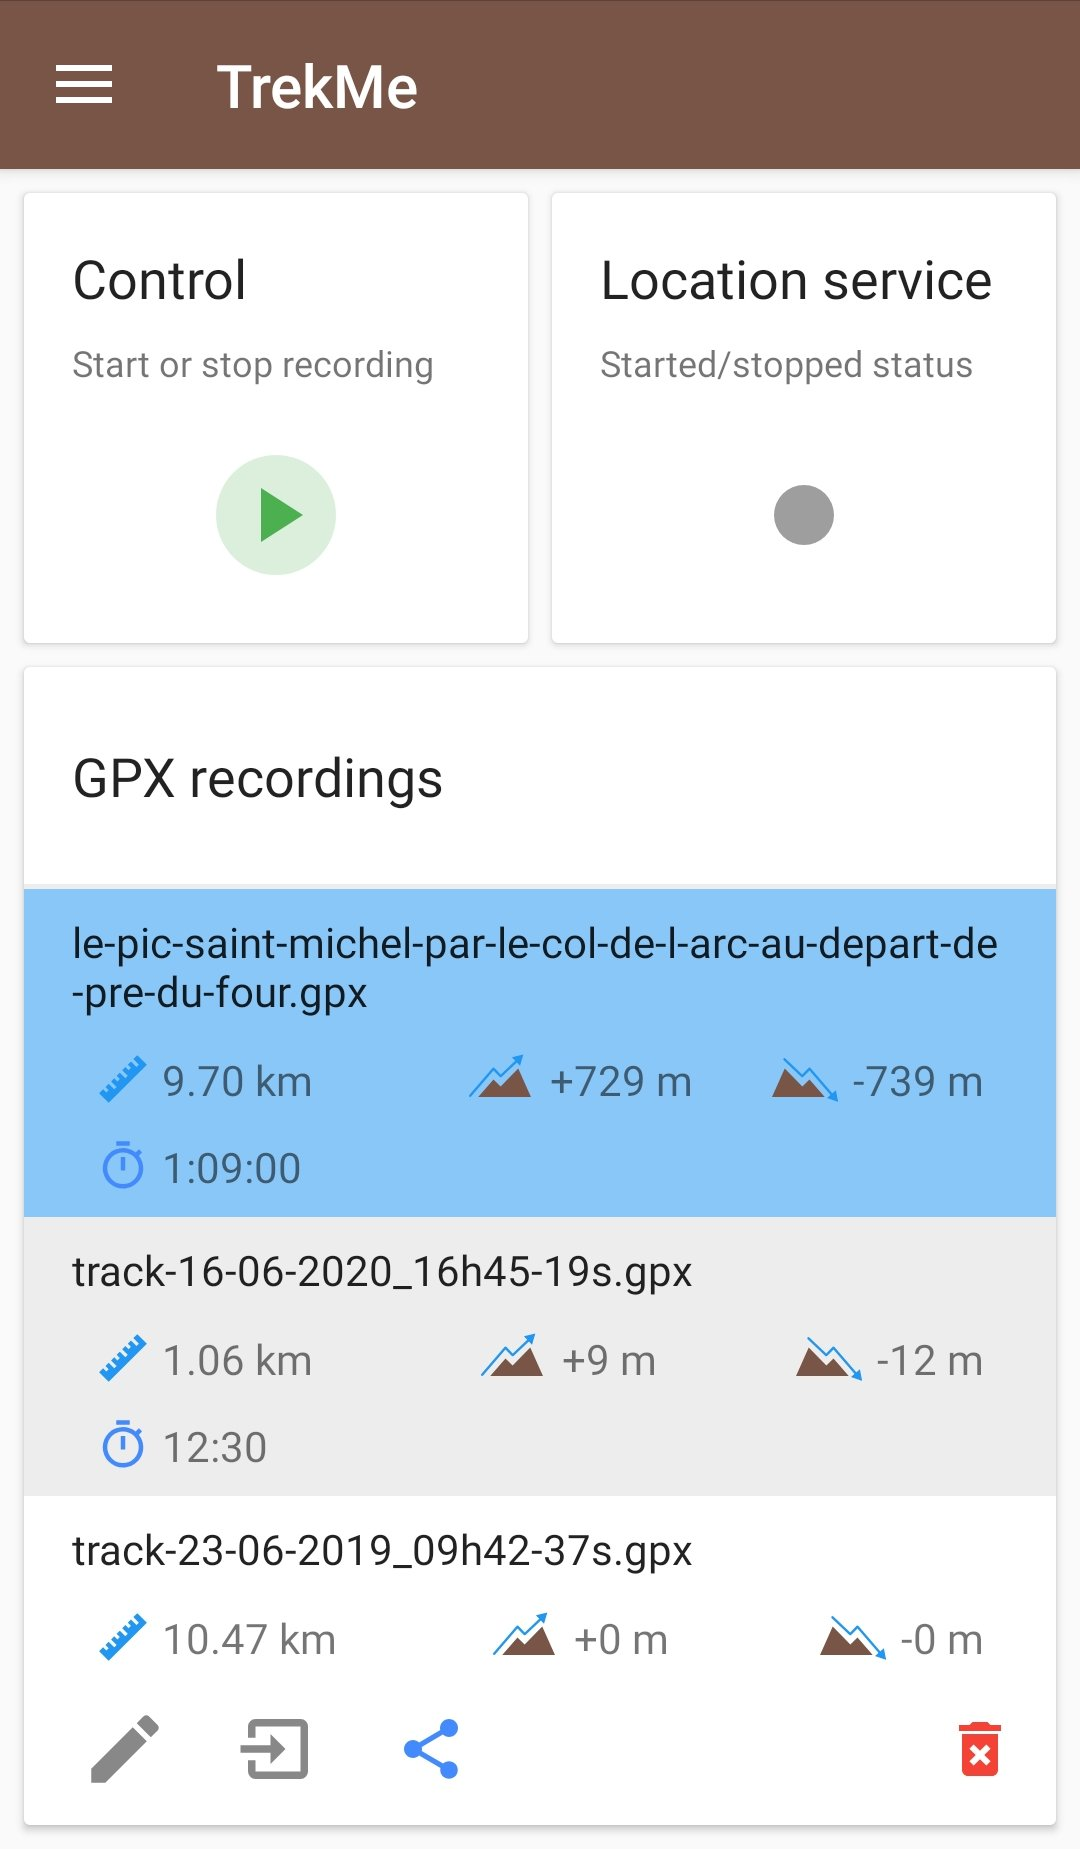
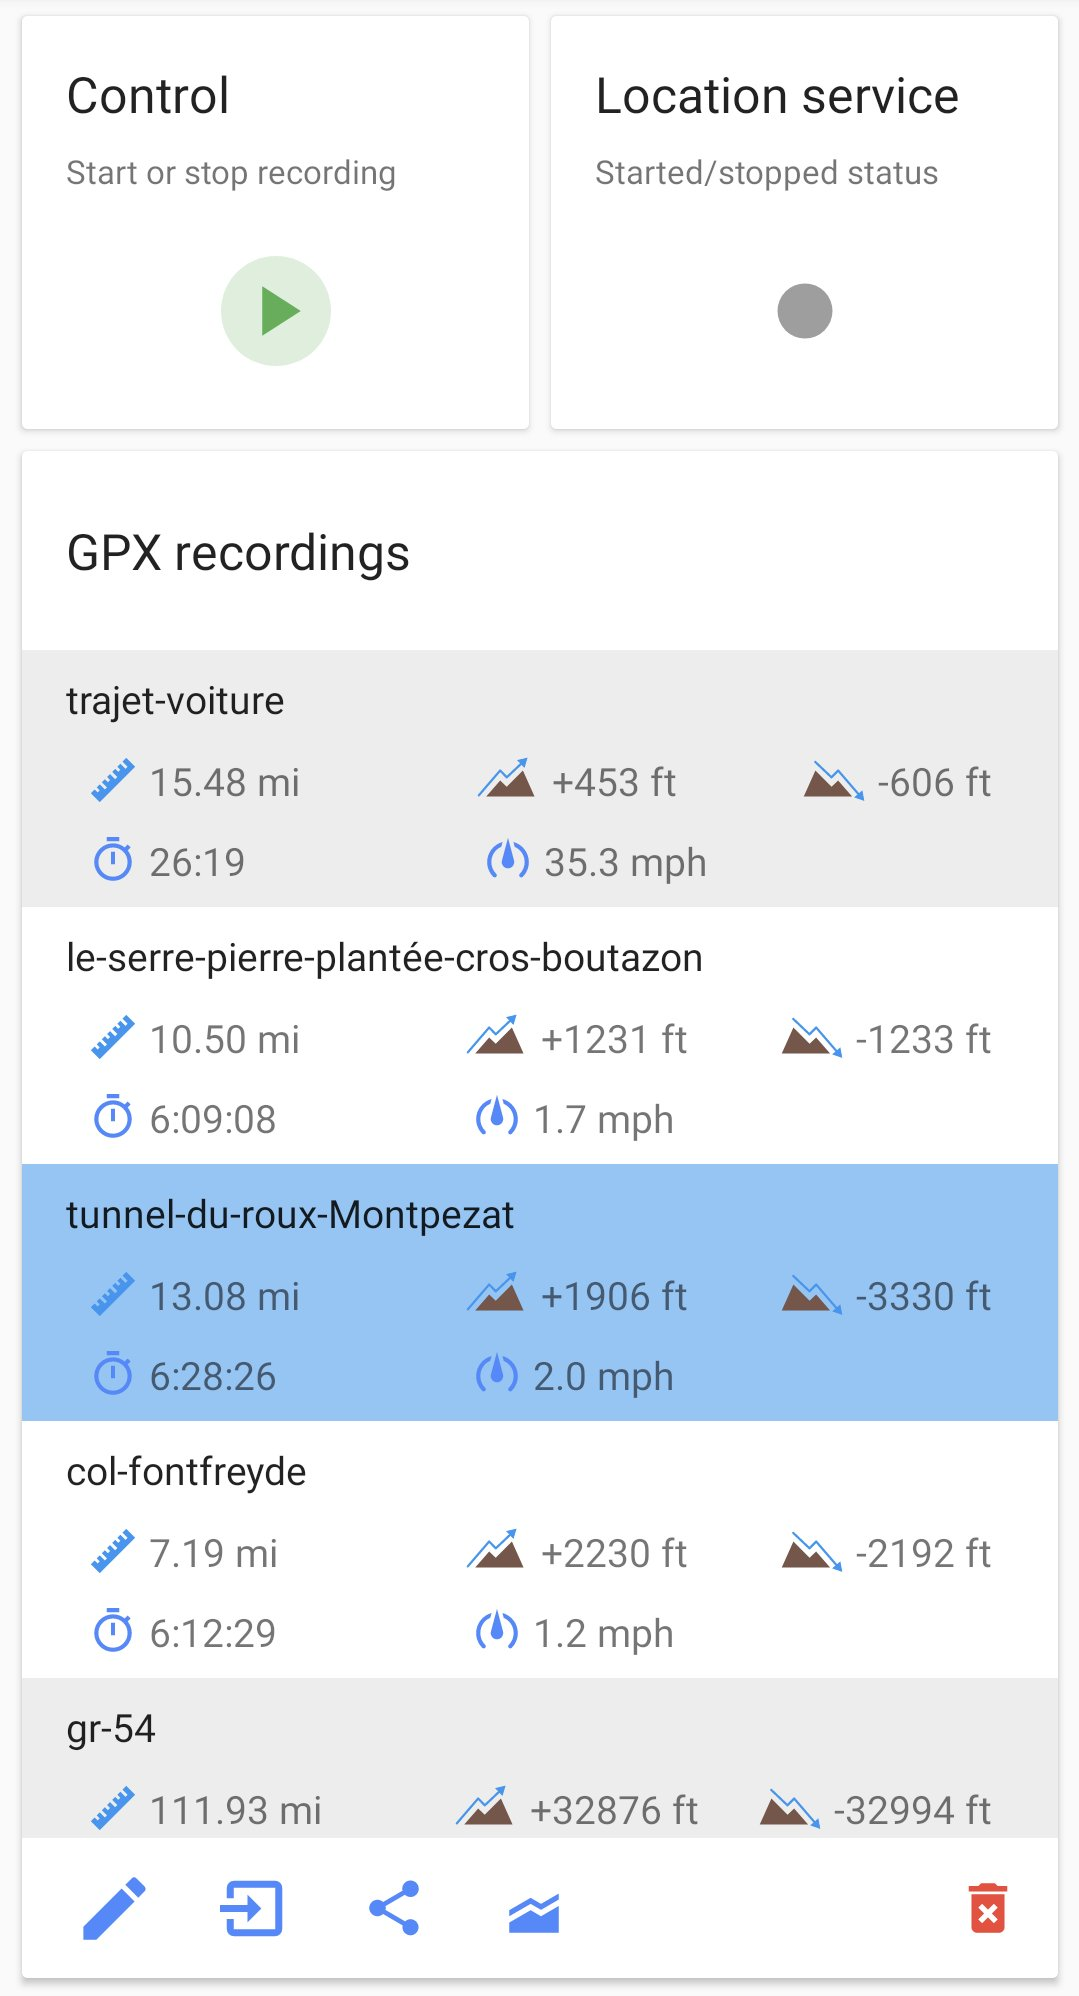
Update Readme

diff --git a/Readme.fr.md b/Readme.fr.md
@@ -337,7 +337,7 @@ Depuis le menu principal allez à "Enregistrement GPX". Vous arrivez à une inte
  celle-ci :
 
 <p align="center">
-<img src="doc/tuto/gpx-recordings.jpg" width="300">
+<img src="doc/tuto/gpx-recordings-fr.jpg" width="300">
 </p>
 
 Un enregistrement peut être démarré ou arrêté depuis le panneau "Commandes".
@@ -347,11 +347,11 @@ est arrêté. Ce service s'arrête dès que vous l'arrêtez depuis le panneau "C
 Un indicateur dans le panneau "Service de localisation" affiche le statut du service.
 
 Un dernier panneau affiche la liste des enregistrements effectués.
-En sélectionnant un enregistrement, trois boutons en bas à gauche vous permettent respectivement de :
+En sélectionnant un enregistrement, quatre boutons en bas à gauche vous permettent respectivement de :
 
 * Renommer le fichier gpx
-* L'importer dans une carte existante (un menu vous donne alors le choix de la carte)
-* Partager un ou plusieurs fichiers gpx
+* Importer la trace dans une carte existante (un menu vous donne alors le choix de la carte)
+* Partager un ou plusieurs fichiers gpx (par email, par exemple)
 * Afficher le profil altimétrique
 
 **Mode de sélection multiple**
@@ -363,7 +363,7 @@ Pour revenir au mode de sélection normal, appuyez à nouveau deux secondes sur 
 
 Que vous soyez en mode de sélection simple ou multiple, le bouton de partage est disponible :
 <p align="center">
-<img src="doc/tuto/share-recording-fr.jpg" width="300">
+<img src="doc/tuto/share-recording.jpg" width="300">
 </p>
 
 **Supprimer un enregistrement**

diff --git a/Readme.md b/Readme.md
@@ -314,11 +314,11 @@ The recording can be started or stopped from the control panel. When recording, 
 runs in the background. It continues even if TrekMe is stopped or paused.
 An indicator reports back the status of the location service. A panel shows the list of recordings.
 
-From there, when selecting a track, there are three buttons at the bottom which enable you to :
+From there, when selecting a track, four buttons at the bottom-left enable you to :
 
-* Rename it,
-* Import it into an existing map (press the import button at the bottom of the list, then choose the map),
-* Share it,
+* Rename the track,
+* Import the track into an existing map (press the import button at the bottom of the list, then choose the map),
+* Share the gpx file (using e.g email),
 * Show the elevation profile
 
 
@@ -331,7 +331,7 @@ To revert back to single selection mode, long press again somewhere in the list.
 
 Whatever the selection mode, the share button below is available:
 <p align="center">
-<img src="doc/tuto/share-recording-en.jpg" width="300">
+<img src="doc/tuto/share-recording.jpg" width="300">
 </p>
 
 **Delete a recording**
